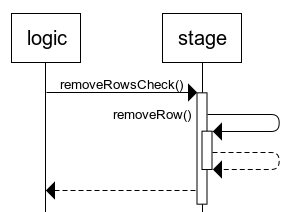
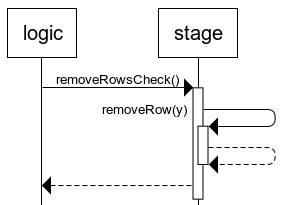
Sequence diagram descriptions added.

Changed region(s): [[0.0, 0.0293, 0.9894, 1.0]]

diff --git a/dokumentaatio/arkkitehtuuri.md b/dokumentaatio/arkkitehtuuri.md
@@ -59,16 +59,22 @@ public void run() {
 ![Sequence diagram for createRandomTetramino()](https://github.com/H4m5t3r/ot-harjoitustyo/blob/master/dokumentaatio/kuvat/createRandomTetramino.png)
 
 #### Sequence diagram for collidesWith(current)
+Here the program runs a collision check. In this case the tetramino does not collide with the stage and a false value is returned.
+
 ![Sequence diagram for collidesWith(current)](https://github.com/H4m5t3r/ot-harjoitustyo/blob/master/dokumentaatio/kuvat/collidesWith(current).png)
 
 #### Sequence diagram for placeTetramino(current)
+The stage gets a two-dimensional collision check array from the current tetramino and puts "#" characters in the block grid in the corresponding coordinates when it notices a "#" character in the collision check array.
+
 ![Sequence diagram for placeTetramino(current)](https://github.com/H4m5t3r/ot-harjoitustyo/blob/master/dokumentaatio/kuvat/placeTetramino(current).png)
 
 #### Sequence diagram for removeRowsCheck()
+In this case the mremoveRowsCheck() method notices that one row should be removed and removeRow(y) is called for that y coordinate.
+
 ![Sequence diagram for removeRowsCheck()](https://github.com/H4m5t3r/ot-harjoitustyo/blob/master/dokumentaatio/kuvat/removeRowsCheck().png)
 
 #### Sequence diagram for the run() method in TetrisUI
-**NOTE: The whole sequence diagram is what the run() method in TetrisUI does. The run() method that is called in the sequence diagram is the logic class' run() method being called. Here the calls in the logig class' run have been left out because they were already visualized and can be found in the piece of code prior to the pictures.**
+**NOTE: The whole sequence diagram is what the run() method in TetrisUI does. The run() method that is called in the sequence diagram is the logic class' run() method being called. Here the calls in the logic class' run have been left out because they were already visualized and can be found in the piece of code prior to the pictures.**
 
 ![Sequence diagram for UIrun()()](https://github.com/H4m5t3r/ot-harjoitustyo/blob/master/dokumentaatio/kuvat/UIrun().png)
 
